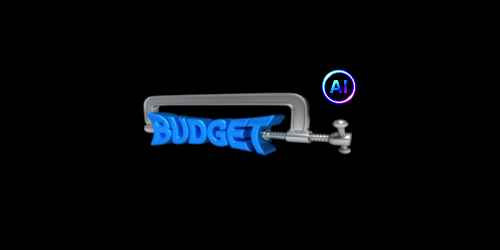
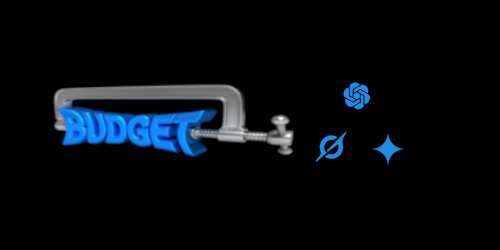
update

Changed region(s): [[0.09, 0.28, 0.75, 0.644], [0.75, 0.532, 0.81, 0.644]]

diff --git a/templates/index.html b/templates/index.html
@@ -895,29 +895,6 @@
 	      </div>
 	    </div>
 	  </div>
-      <!----- Buddy AI --------->
-	  <div class="col-sm-6 col-md-4 project-card" data-category="ai">
-	    <div class="card project-box shadow position-relative h-100">
-	      <div class="project-img img-box">
-	        <!-- Add relevant image from /static/images/ here -->
-	        <img src="{{ url_for('static', filename='images/buddy_ai.png') }}"
-	             alt="Buddy AI"
-	             class="card-img-top"/>
-	        <div class="project-overlay d-flex flex-column justify-content-center align-items-center">
-	          <h5 class="text-white">Buddy AI</h5>
-	          <p class="small text-white mb-2 px-2">
-	            A multi-modal, multi-provider AI fine-tuned on federal guidance,
-	            budget execution data, and a vectorized financial policy documents.
-	          </p>
-	          <a href="https://github.com/is-leeroy-jenkins/Buddy#buddy" target="_blank"
-	             class="text-white">
-	            <i class="fab fa-github fa-2x text-white"></i>
-	            <p>Click here</p>
-	          </a>
-	        </div>
-	      </div>
-	    </div>
-	  </div>
       <!----- Gipity AI --------->
 	  <div class="col-sm-6 col-md-4 project-card" data-category="ai">
 	    <div class="card project-box shadow position-relative h-100">
@@ -941,21 +918,21 @@
 	      </div>
 	    </div>
 	  </div>
-      <!----- Guro AI --------->
+      <!----- Buddy AI --------->
 	  <div class="col-sm-6 col-md-4 project-card" data-category="ai">
 	    <div class="card project-box shadow position-relative h-100">
 	      <div class="project-img img-box">
 	        <!-- Add relevant image from /static/images/ here -->
-	        <img src="{{ url_for('static', filename='images/guro_ai.png') }}"
-	             alt="Guro"
+	        <img src="{{ url_for('static', filename='images/buddy_ai.png') }}"
+	             alt="Buddy AI"
 	             class="card-img-top"/>
 	        <div class="project-overlay d-flex flex-column justify-content-center align-items-center">
-	          <h5 class="text-white">Guro</h5>
+	          <h5 class="text-white">Buddy AI</h5>
 	          <p class="small text-white mb-2 px-2">
-	            A prompt engineering library of over 100 specialized prompts structured for
-	            compatibility with OpenAI, Anthropic, Cohere, Gemini, Grok and other LLM providers.
+	            A multi-modal, multi-provider AI fine-tuned on federal guidance,
+	            budget execution data, and a vectorized financial policy documents.
 	          </p>
-	          <a href="https://github.com/is-leeroy-jenkins/Guro#guro" target="_blank"
+	          <a href="https://github.com/is-leeroy-jenkins/Buddy#buddy" target="_blank"
 	             class="text-white">
 	            <i class="fab fa-github fa-2x text-white"></i>
 	            <p>Click here</p>
@@ -979,6 +956,29 @@
 	             support for long context windows.
 	          </p>
 	          <a href="https://github.com/is-leeroy-jenkins/Jeni#jeni" target="_blank"
+	             class="text-white">
+	            <i class="fab fa-github fa-2x text-white"></i>
+	            <p>Click here</p>
+	          </a>
+	        </div>
+	      </div>
+	    </div>
+	  </div>
+      <!----- Guro AI --------->
+	  <div class="col-sm-6 col-md-4 project-card" data-category="ai">
+	    <div class="card project-box shadow position-relative h-100">
+	      <div class="project-img img-box">
+	        <!-- Add relevant image from /static/images/ here -->
+	        <img src="{{ url_for('static', filename='images/guro_ai.png') }}"
+	             alt="Guro"
+	             class="card-img-top"/>
+	        <div class="project-overlay d-flex flex-column justify-content-center align-items-center">
+	          <h5 class="text-white">Guro</h5>
+	          <p class="small text-white mb-2 px-2">
+	            A prompt engineering library of over 100 specialized prompts structured for
+	            compatibility with OpenAI, Anthropic, Cohere, Gemini, Grok and other LLM providers.
+	          </p>
+	          <a href="https://github.com/is-leeroy-jenkins/Guro#guro" target="_blank"
 	             class="text-white">
 	            <i class="fab fa-github fa-2x text-white"></i>
 	            <p>Click here</p>